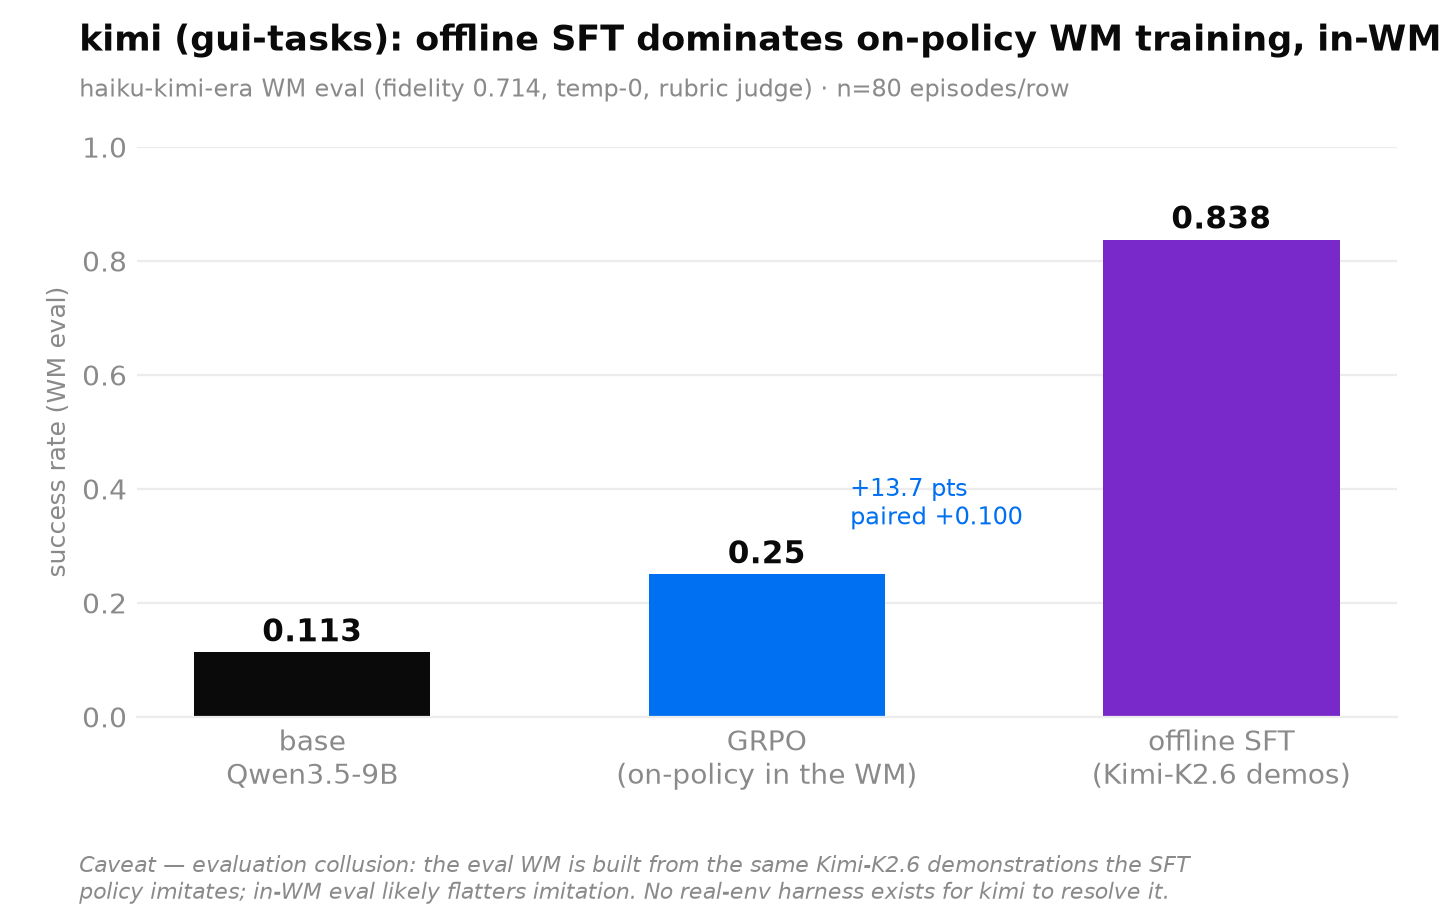
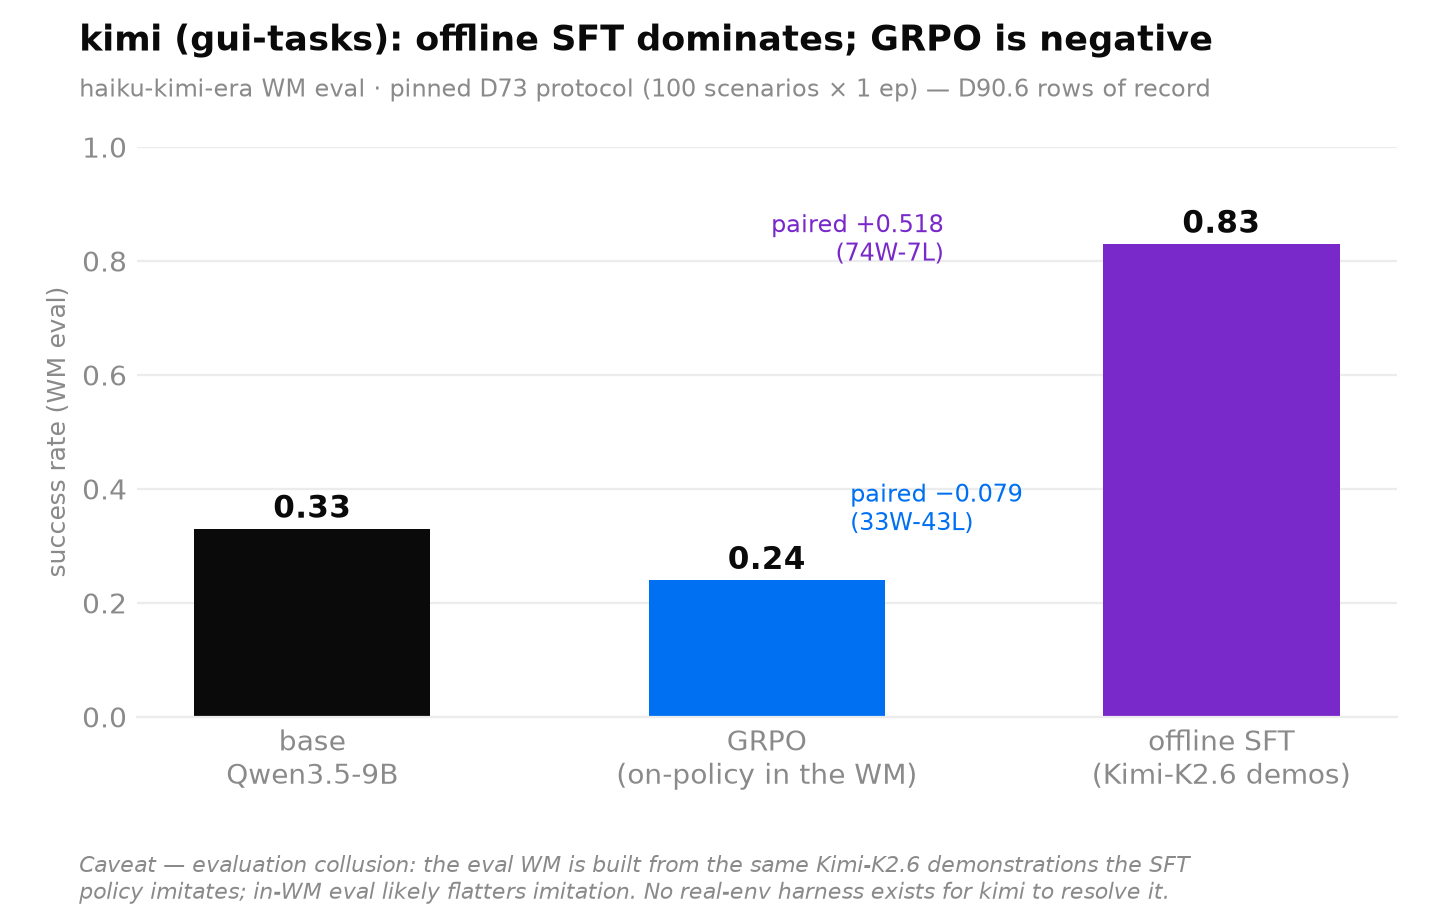
tau-bench RL (B3): kimi figure updated to D90.6 full-100 rows of record

diff --git a/.agents/scripts/plot_b3_results.py b/.agents/scripts/plot_b3_results.py
@@ -39,7 +39,7 @@ def _clean_axes(ax) -> None:
 def kimi_three_bar() -> None:
     fig, ax = plt.subplots(figsize=(7.2, 4.6), dpi=200)
     labels = ["base\nQwen3.5-9B", "GRPO\n(on-policy in the WM)", "offline SFT\n(Kimi-K2.6 demos)"]
-    values = [0.113, 0.250, 0.8375]
+    values = [0.330, 0.240, 0.830]
     colors = [_INK, _BLUE, _PURPLE]
     bars = ax.bar(labels, values, width=0.52, color=colors)
     for bar, v in zip(bars, values):
@@ -54,20 +54,24 @@ def kimi_three_bar() -> None:
             color=_INK,
         )
     ax.annotate(
-        "+13.7 pts\npaired +0.100", (1, 0.250), textcoords="offset points", xytext=(30, 18),
+        "paired −0.079\n(33W-43L)", (1, 0.240), textcoords="offset points", xytext=(30, 18),
         ha="left", fontsize=8.5, color=_BLUE,
+    )
+    ax.annotate(
+        "paired +0.518\n(74W-7L)", (2, 0.830), textcoords="offset points", xytext=(-100, -6),
+        ha="right", fontsize=8.5, color=_PURPLE,
     )
     ax.set_ylim(0, 1.0)
     ax.set_ylabel("success rate (WM eval)", fontsize=9, color=_MUTED)
     _clean_axes(ax)
     fig.text(
         0.055, 0.945,
-        "kimi (gui-tasks): offline SFT dominates on-policy WM training, in-WM",
+        "kimi (gui-tasks): offline SFT dominates; GRPO is negative",
         fontsize=12.5, fontweight="bold", color=_INK,
     )
     fig.text(
         0.055, 0.895,
-        "haiku-kimi-era WM eval (fidelity 0.714, temp-0, rubric judge) · n=80 episodes/row",
+        "haiku-kimi-era WM eval · pinned D73 protocol (100 scenarios × 1 ep) — D90.6 rows of record",
         fontsize=8.5, color=_MUTED,
     )
     fig.text(
